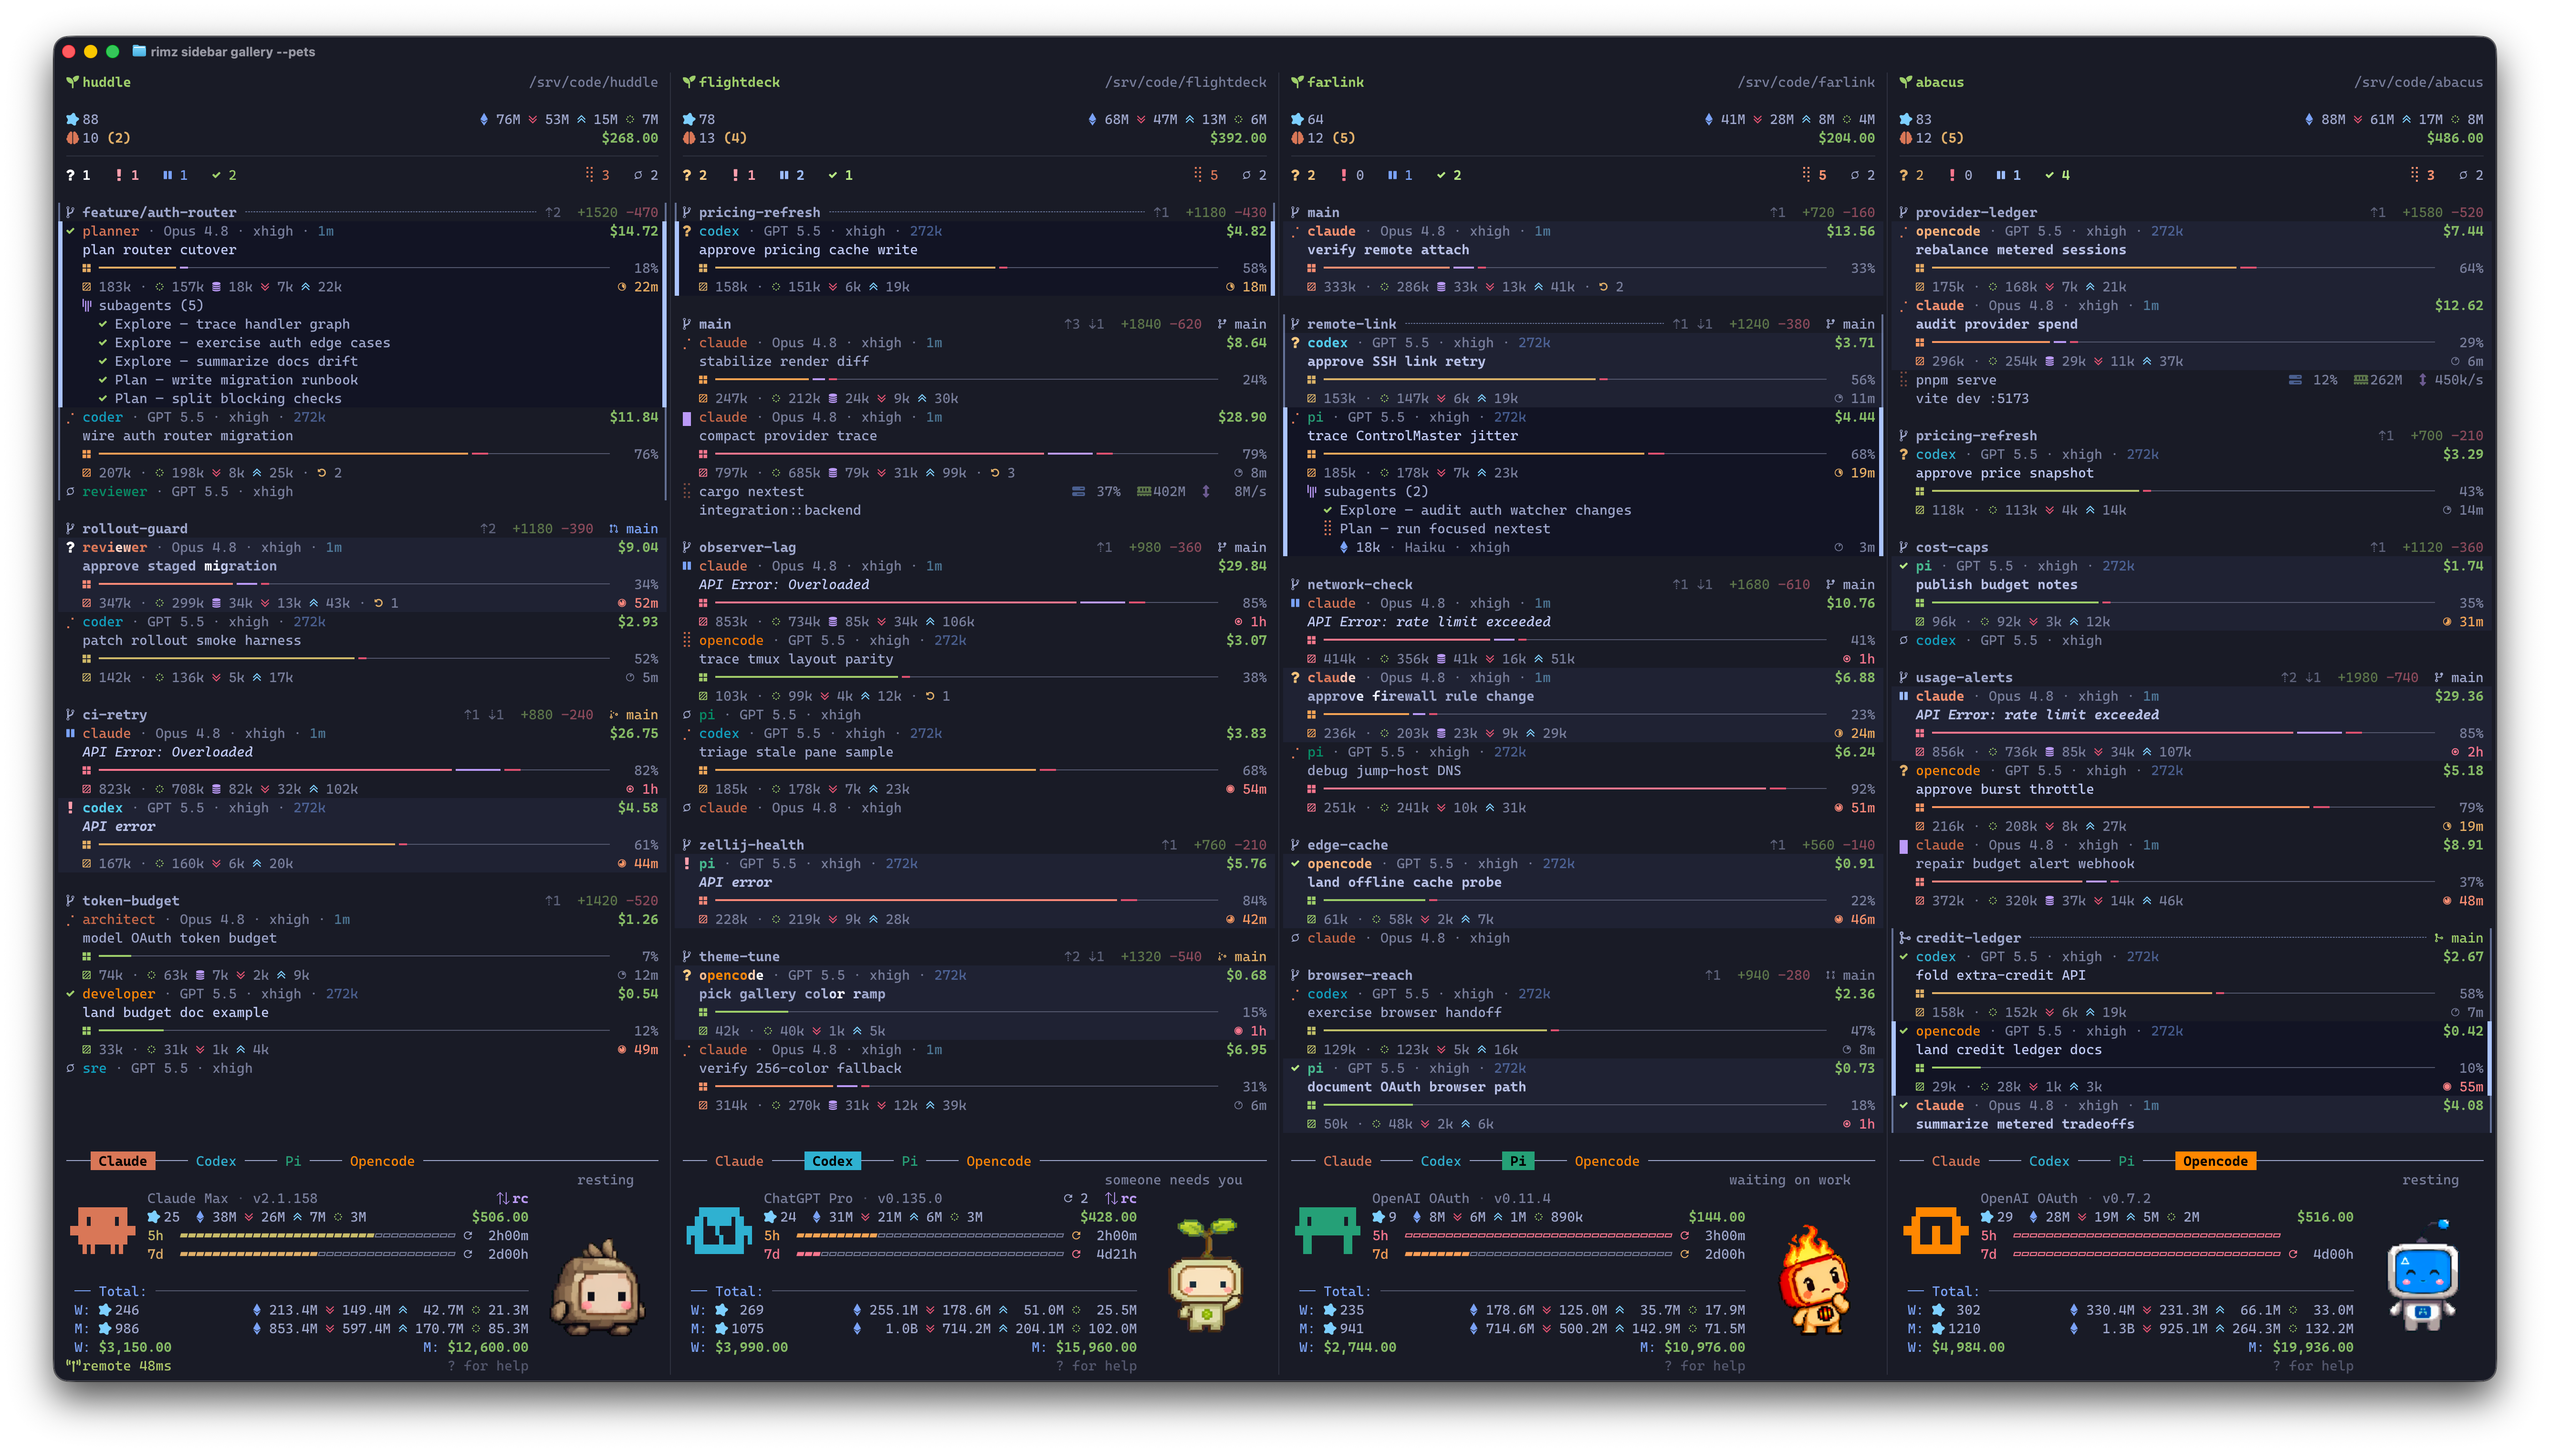
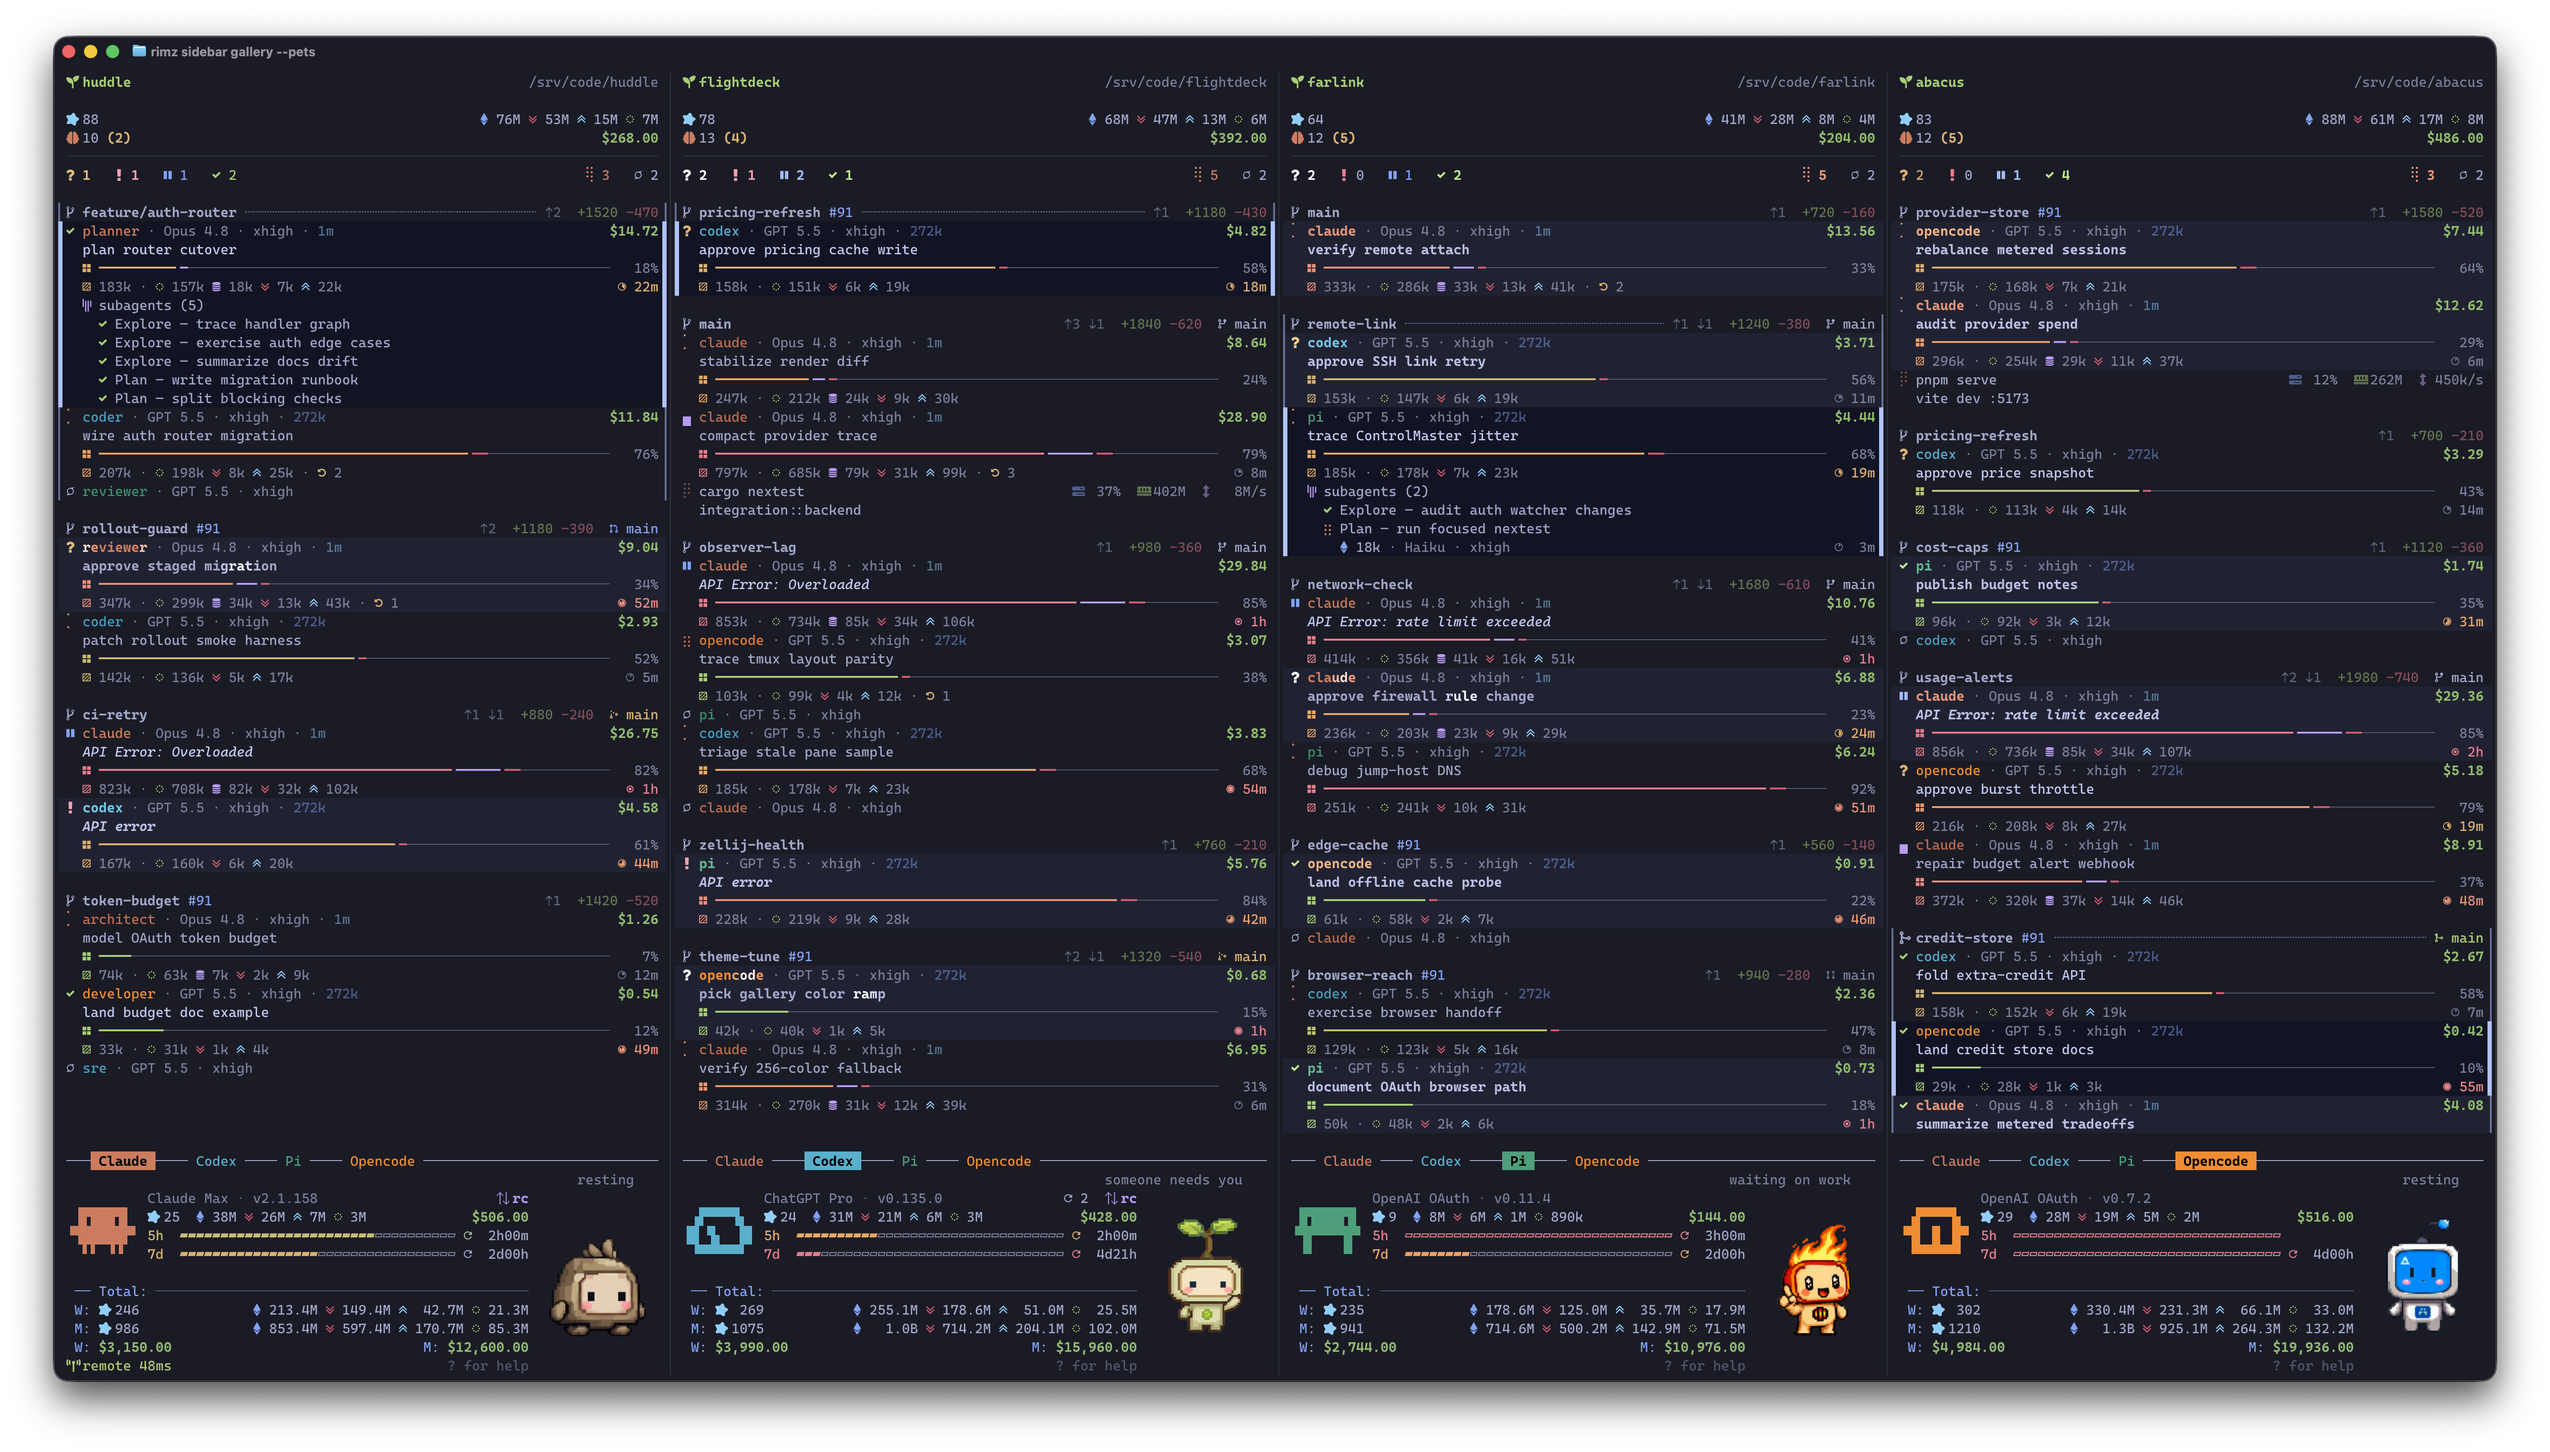
docs(readme): promote answering asks from your phone to an everyday move
The phone story was buried as a config footnote and read as if the user
asks something on their phone. Reframe it: an agent's blocking question
chases you into the provider's official mobile app, your answer lands in
the same session, and RimZ only keeps the vendor's own bridge up with the
room. The configuration section now defers to the move.

diff --git a/README.md b/README.md
@@ -66,7 +66,7 @@ Read that as: ready for personal, daily use today; for production workflows that
 - **Scriptable, End to End:** `rimz agents -p` is `claude -p` for every agent, with exit codes, JSON output, streaming, and the full transcript kept, so agents drop into scripts, CI, and workflows
 - **Loops, Yours to Engineer:** `rimz loop` schedules supervised runs on a clock (calendar, interval, cron, or a check-guarded watchdog that runs a command and wakes an agent on the result), and notification handlers run your own command the moment a row needs eyes
 - **Auto Continue, while you're Away:** a rate-limit pause resumes the moment the budget window resets and transient API overload retries on a backoff ramp; agents recover themselves and keep working while you're gone
-- **Answer from your Phone:** official remote control puts your terminal sessions in the Claude and ChatGPT mobile apps: kick off a task at your desk, answer its questions from your phone, come back and review in the pane; one seamless session, end to end
+- **Answer from your Phone:** when an agent stops to ask, the question reaches the official Claude and ChatGPT mobile apps through each provider's own remote control; answer there and it lands in the same session, the turn moving on in its pane as if you had typed it, with RimZ never between you and the official apps
 - **Pets, your beloved Companion:** an animated sprite on the provider dashboard that keeps you company, running while the agents run and waving when one waits
 - **Local or Remote, Continuously:** start on your MacBook or a server, close the laptop, and reattach from anywhere; the link heals itself every time you reconnect
 - **Extremely Lightweight:** a single binary that hooks the agents you already run, inside your familiar Zellij or tmux: same keybinds, same terminal, zero learning curve; all the official web, desktop, and mobile apps keep working
@@ -195,6 +195,15 @@ rimz remote connect dev          # the room rebuilds, every agent where you left
 rimz remote connect dev --web    # the same room in your browser at 127.0.0.1
 ```
 
+**Answer from your phone.** A fleet that runs while you are out still stops to ask: a permission prompt, a plan approval, a question only you can decide. Claude Code and Codex ship remote control, the bridge behind their official mobile apps, and two toggles make every room keep that bridge up. The ask reaches your phone as a push from the provider's own app, your answer lands in the same session on the machine running the room, and the turn continues in its pane as if you had typed it there. Leave the room on a server, go to dinner, and a 9 p.m. question is one tap instead of a fleet stalled until morning. RimZ stays out of the path: the toggles start the provider's own command with the room and nothing more, so everything official keeps working exactly as the vendor built it.
+
+```sh
+rimz config set remote_control.claude true    # keep `claude remote-control` up with the room
+rimz config set remote_control.codex true     # ensure codex's remote-control daemon, once per machine
+```
+
+Both are off by default, and setting one back to `false` undoes it. The [agents guide](./docs/guide/agents.md#answer-asks-from-your-phone) shows exactly what each toggle runs.
+
 ## Configuration
 
 RimZ runs with zero configuration, and everything you can tune is plain TOML in files you own: no config daemon, no bespoke language. `rimz setup` detects the machine and writes commented defaults under `~/.config/rimz/` (config, theme, agents, loop, remote), so the files are their own reference; after that, [`rimz config set`](./docs/guide/configuration.md) routes any dotted key to the owning file, validates the value, and writes it durably.
@@ -212,7 +221,7 @@ rimz config set theme.pets.enabled true       # an animated pet; `rimz list-pets
 rimz config set resume.auto_continue true     # resume rate-limit and API-error parks
 rimz config set harness.smart_compact "70%"   # compact before a message once context passes 70%
 
-# Asks on your phone: the providers' official mobile bridges
+# Answer asks from your phone (the move above)
 rimz config set remote_control.claude true
 rimz config set remote_control.codex true
 ```
@@ -221,7 +230,7 @@ What each group does, with the depth one link away:
 
 - The modern look wants a truecolor terminal (Ghostty, WezTerm, Kitty, Alacritty) and a Nerd Font, inside RimZ tmux rooms and over `rimz remote` too. The color scheme defaults to TokyoNight Night; `rimz config set theme "Catppuccin Mocha"` picks any bundled scheme from `rimz list-themes`. Pets render as crisp pixels in Ghostty and kitty (tmux additionally needs 3.6+ with `allow-passthrough on`) and as cell art everywhere else, Zellij included. → [theming](./docs/guide/theme.md) · [pets](./docs/guide/pets.md)
 - Auto-continue resumes a parked agent the moment the provider's budget window resets and retries transient API errors on a backoff ramp; smart compaction sends `/compact` ahead of your text once context passes the threshold, so a long turn lands on a fresh window. Add a [scheduled ping](#everyday-moves) and the fleet only needs you for real decisions; cap what that freedom costs with `rimz config set harness.budget 50/day`. → [loops → built-in recovery](./docs/guide/loops.md#built-in-recovery) · [budgets](./docs/guide/budget.md)
-- The remote-control toggles bring up Claude's and Codex's own mobile-app bridges with every room start, so a blocking ask reaches your phone and your answer lands in the same session, in the same pane. Both are off by default, and the [agents guide](./docs/guide/agents.md#answer-asks-from-your-phone) shows exactly what each toggle runs.
+- The remote-control toggles are the [answer-from-your-phone move](#everyday-moves) above; the [agents guide](./docs/guide/agents.md#answer-asks-from-your-phone) shows exactly what each one runs.
 
 The [setup guide](./docs/guide/setup.md) walks the whole first pass, including agent hooks and a modern Zellij/tmux baseline with [ready-to-adopt example configs](./examples/README.md); the full key catalog is the [configuration guide](./docs/guide/configuration.md).
 
